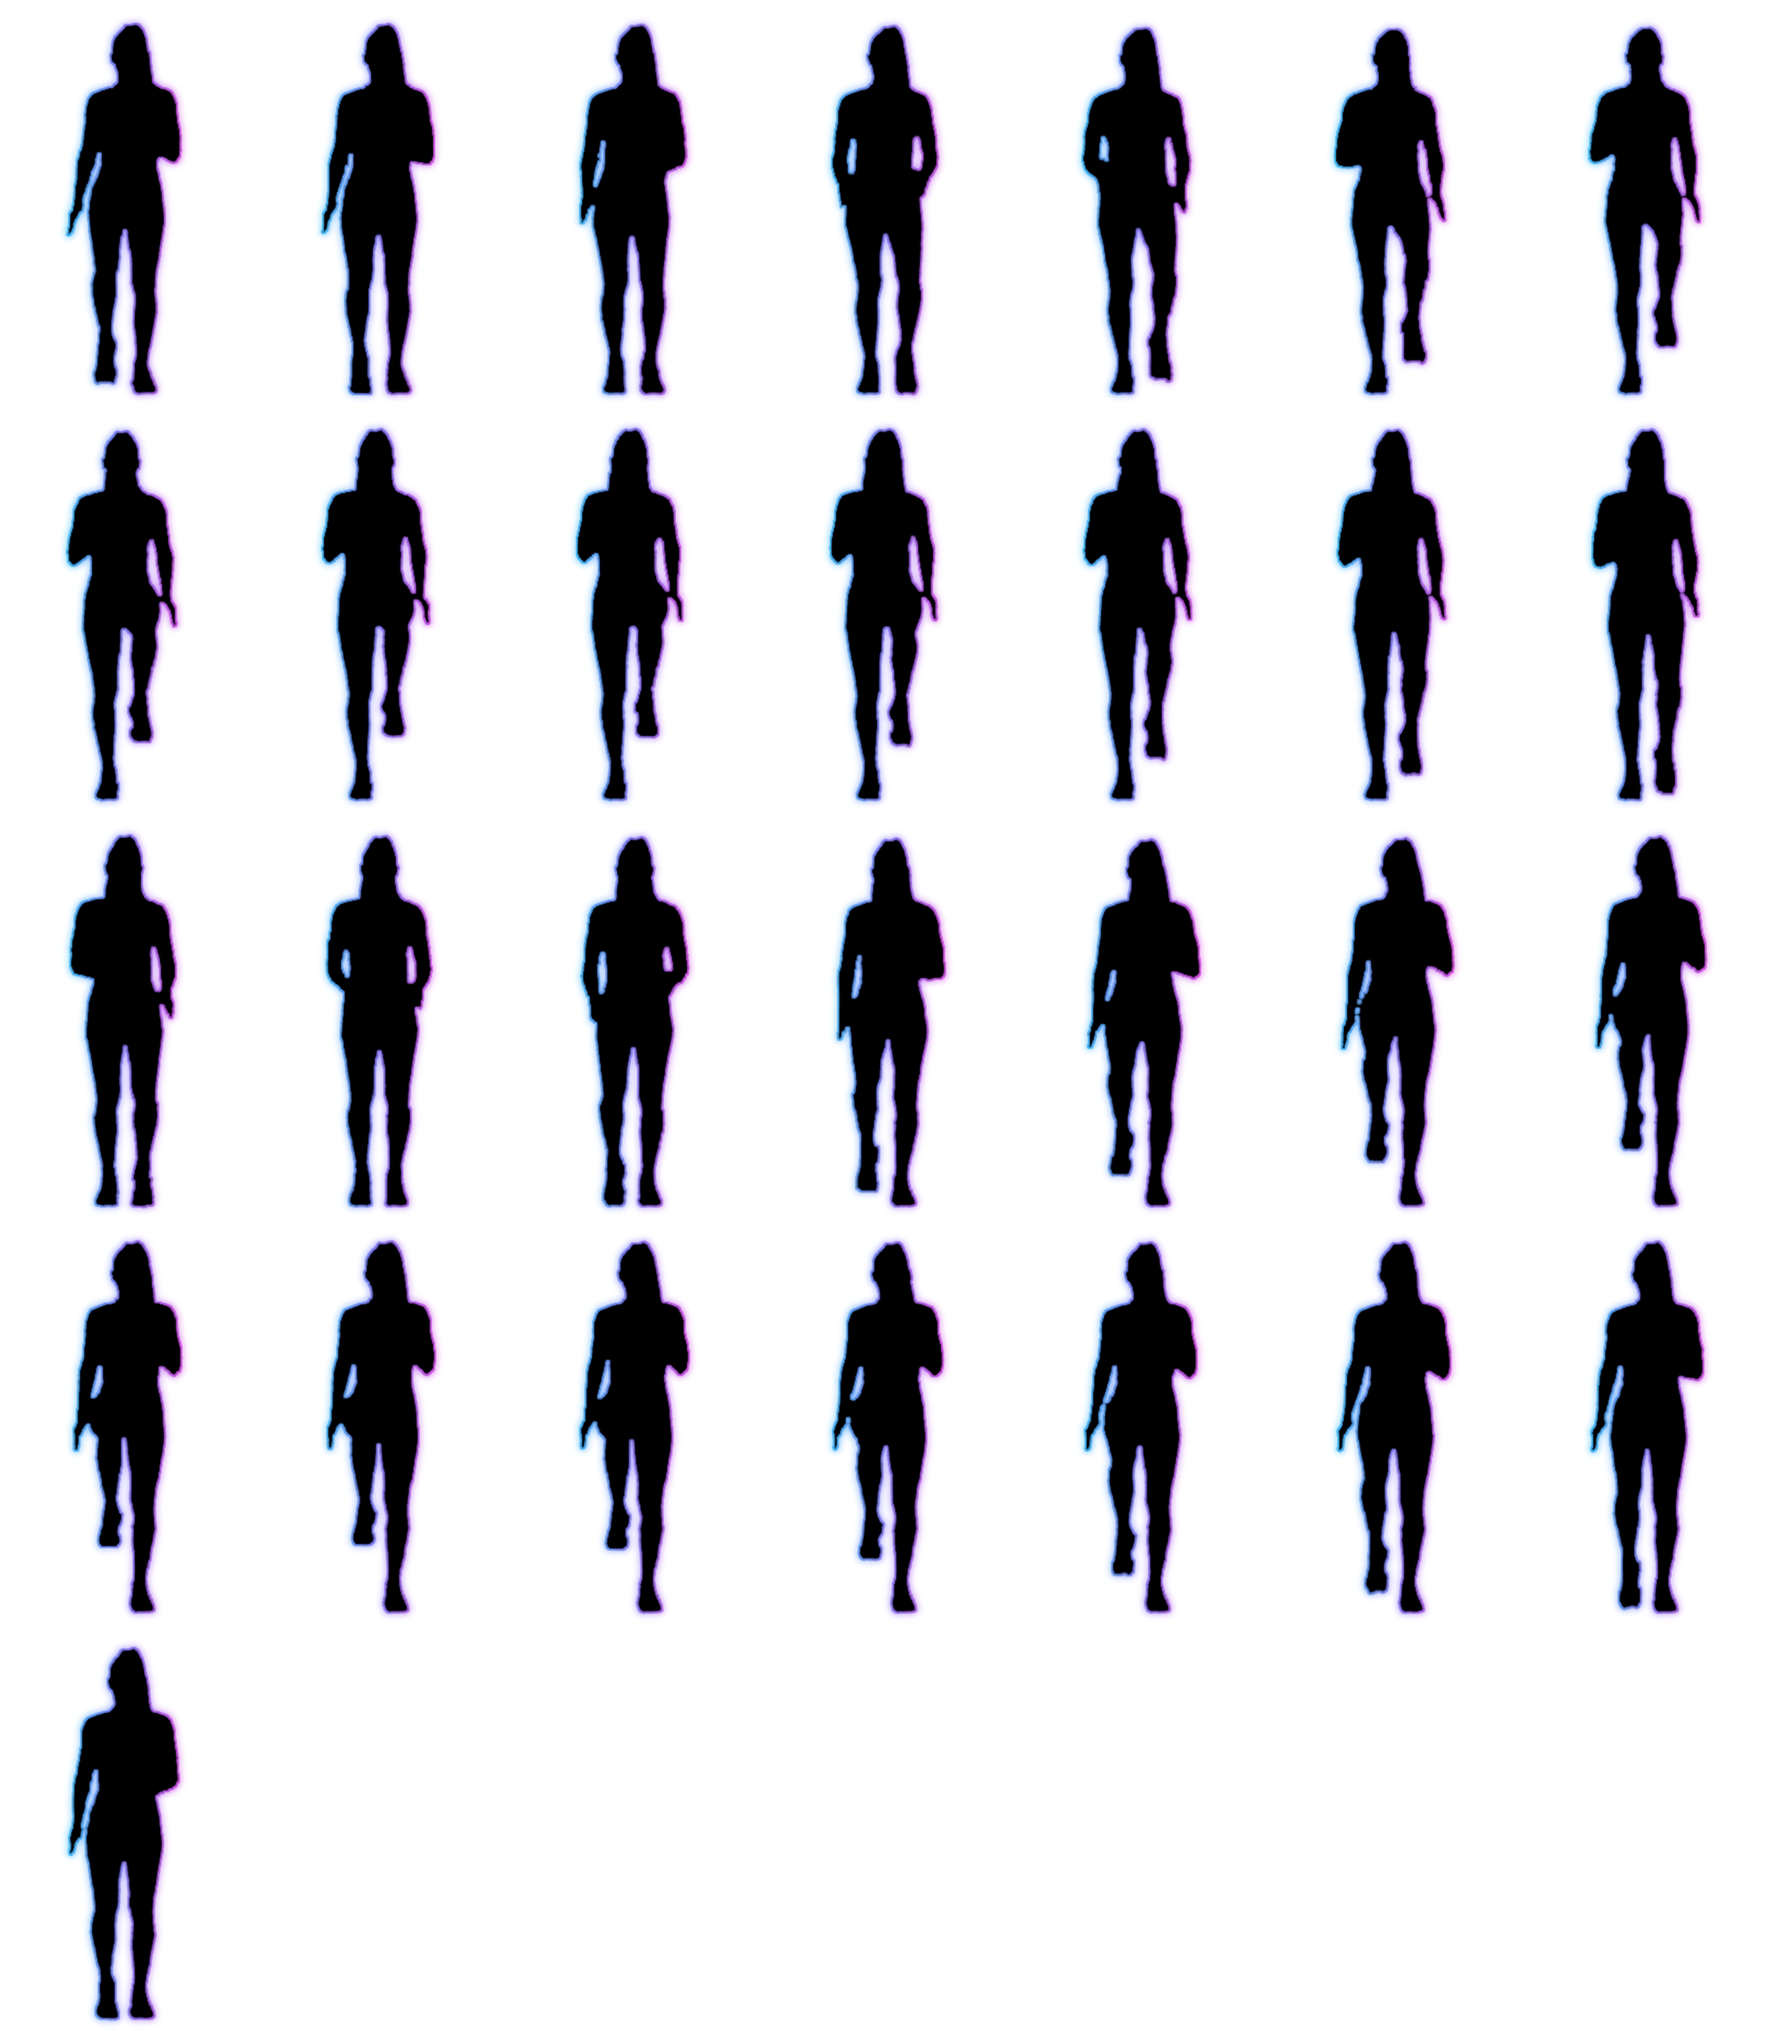
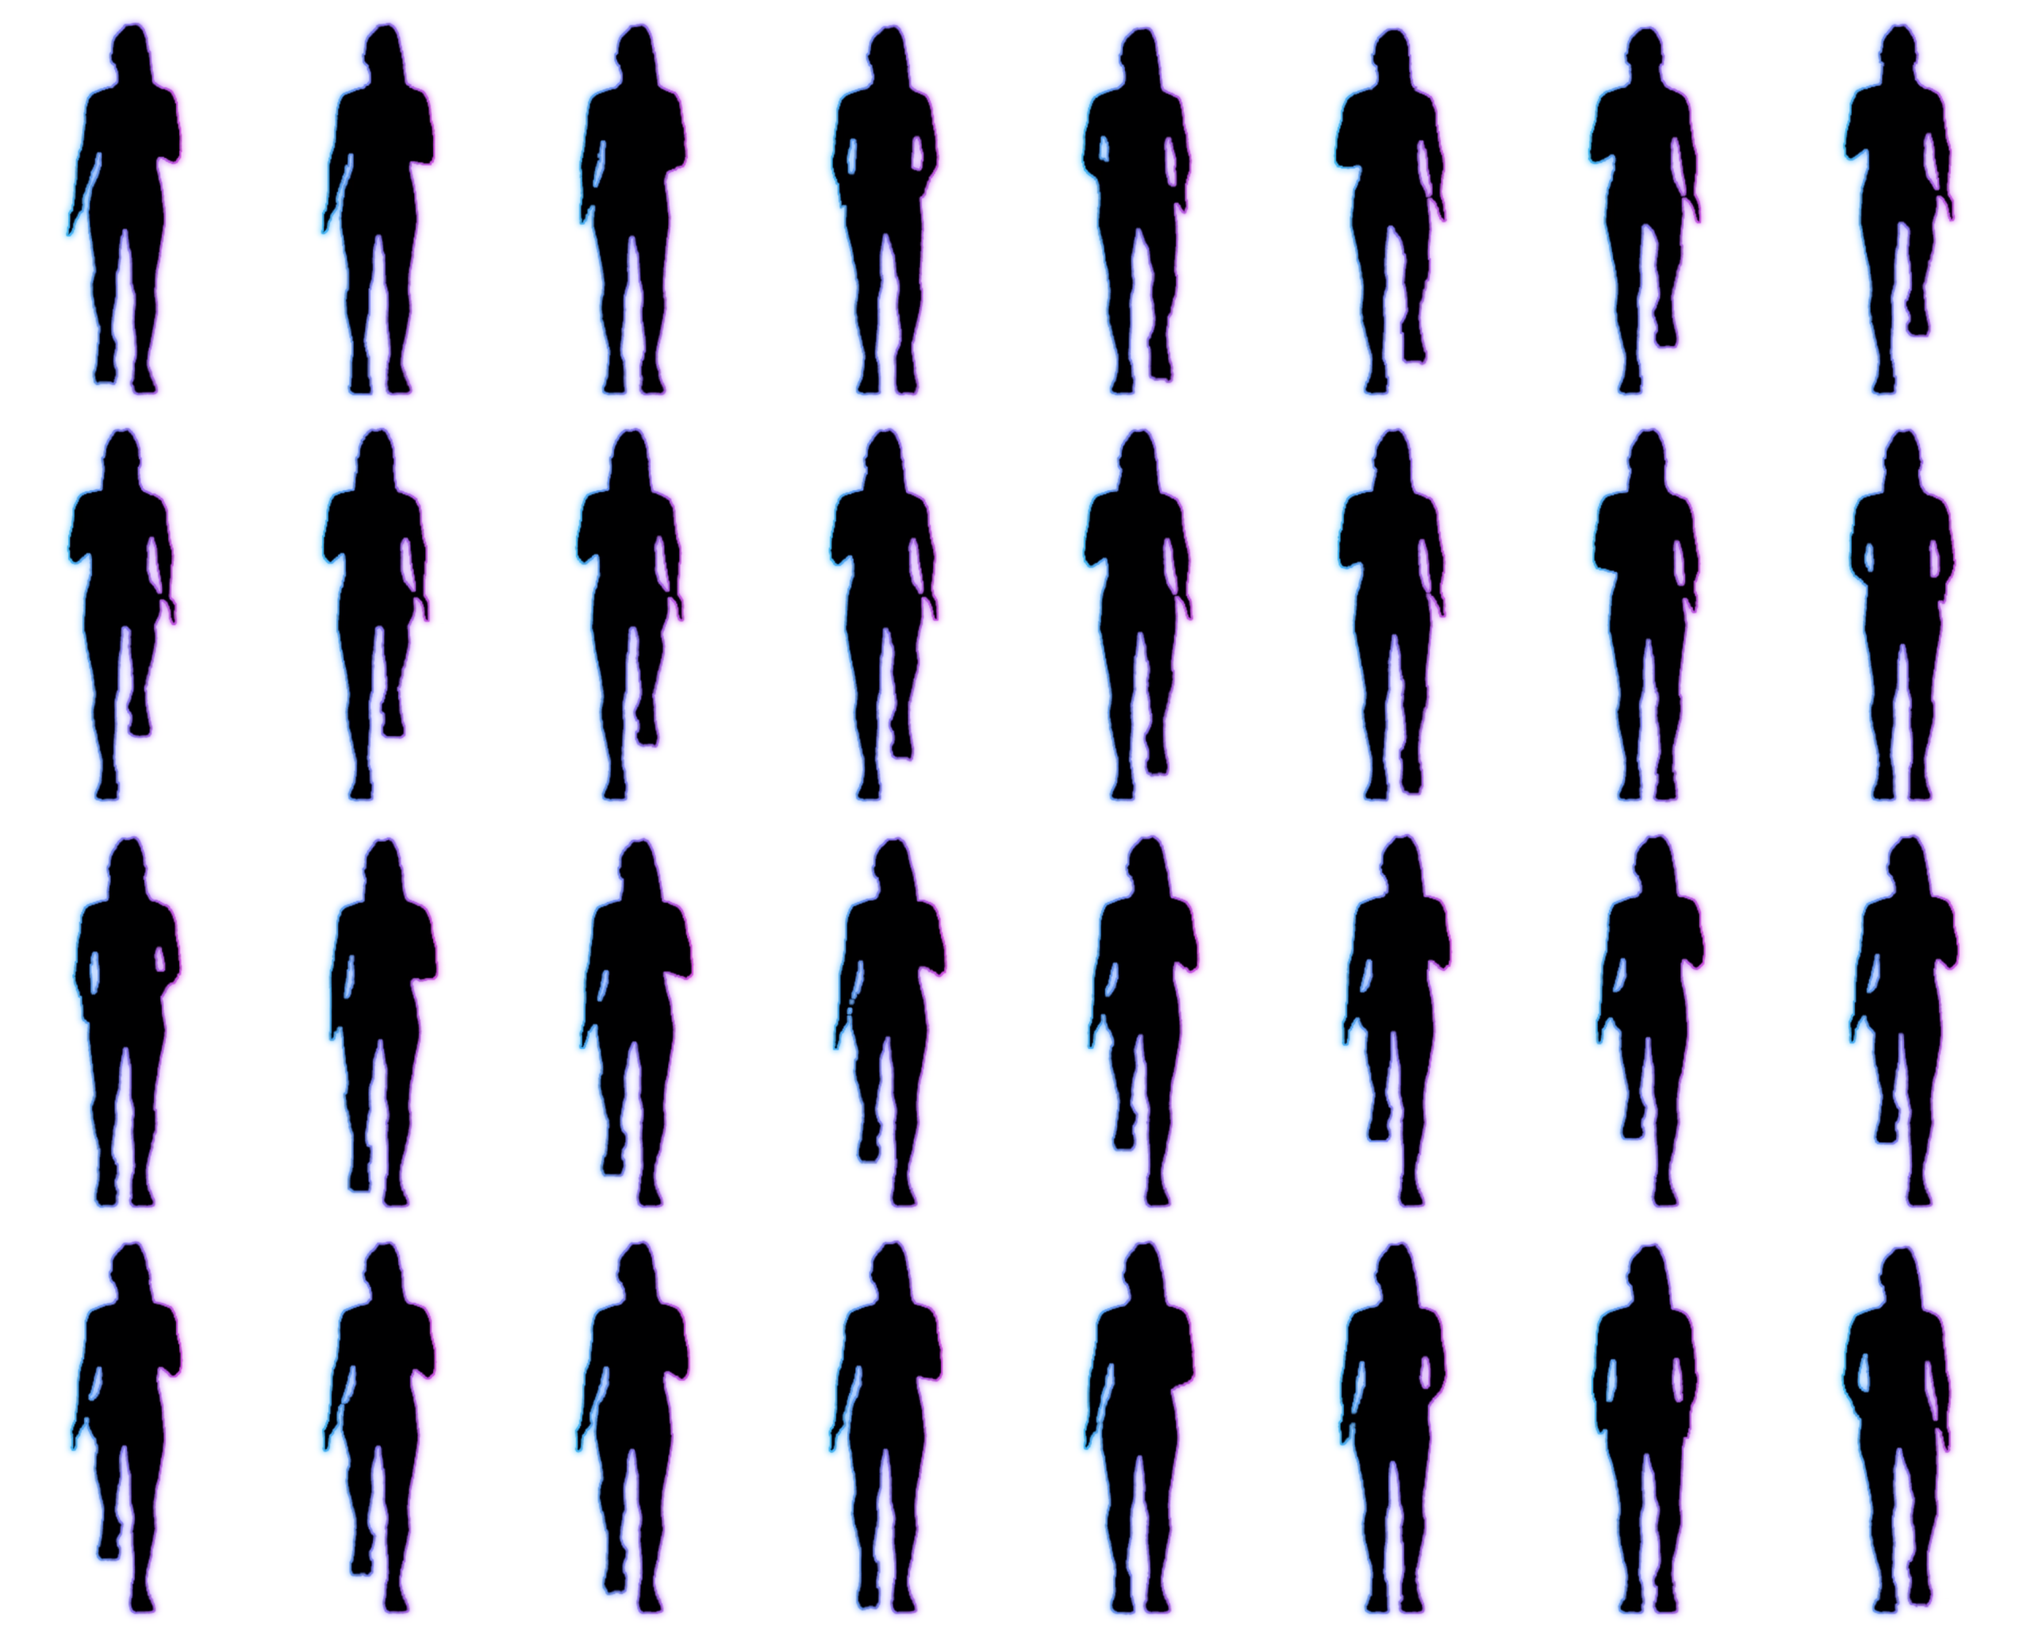
Video trainer: the march step lands on the note (foot down R 2.04 / L 2.58), not the knee at its top

diff --git a/Assets/Editor/VideoSilhouetteSetup.cs b/Assets/Editor/VideoSilhouetteSetup.cs
@@ -57,7 +57,8 @@ public static class VideoSilhouetteSetup
     private const VideoSilhouetteSet.Side L = VideoSilhouetteSet.Side.Left, R = VideoSilhouetteSet.Side.Right, N = VideoSilhouetteSet.Side.None;
 
     /// "степ ногой": a step out to the right, arms swinging. Left = mirrored.
-    /// "марширует": knees R 1.83, L 2.375 on one 1.125 s repeat; held = frozen up.
+    /// "марширует": the foot comes DOWN on the note (R lands 2.04, L 2.58 - knees up at 1.83 / 2.375)
+    ///   on one 1.125 s repeat; held = the knee frozen up.
     /// "узкий шаг и широкий шаг": out to a wide stance (2.1) and back - the wider of the two jack
     ///   takes (feet 71 px apart against 45 for "чередует прыжок, ноги врозь, узкие").
     /// "прыжок на месте": the top of the jump (2.33), apex to apex 1.5 s.
@@ -72,7 +73,7 @@ public static class VideoSilhouetteSetup
     {
         C("step", M("step", R, 1.0f, 1.67f, 2.4f)),
         C("march",
-            M("march", R, 1.5f, 1.83f, 2.08f, 1.5f, 2.625f), M("march", L, 2.04f, 2.375f, 2.62f, 1.5f, 2.625f),
+            M("march", R, 1.5f, 2.04f, 2.2f, 1.5f, 2.625f), M("march", L, 2.04f, 2.58f, 2.74f, 1.5f, 2.625f),
             M("marchHold", R, 1.5f, 1.83f, 2.08f), M("marchHold", L, 2.04f, 2.375f, 2.62f)),
         C("step_narrow_wide", M("jack", N, 1.55f, 2.1f, 2.8f)),
         C("jump", M("jump", N, 1.55f, 2.33f, 3.25f, 0.83f, 2.33f)),
